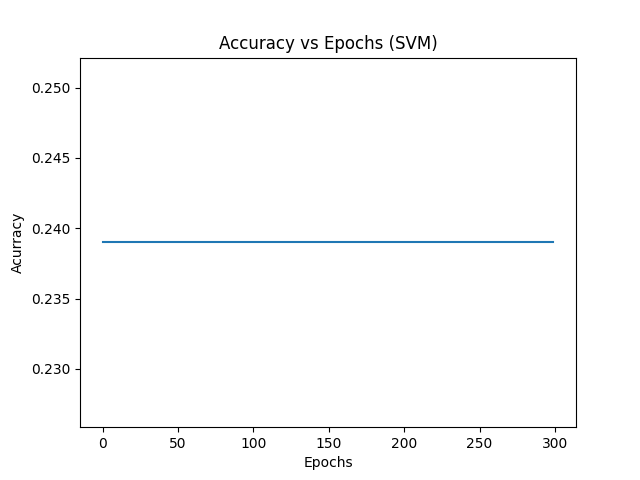
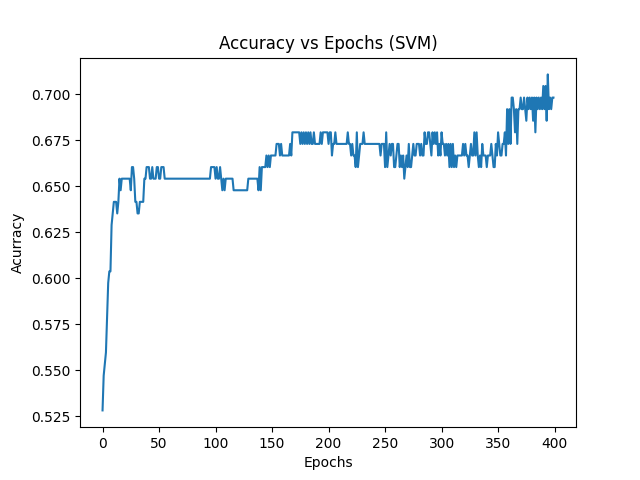
Minor changes"

diff --git a/Act_Training/basic_perceptron.py b/Act_Training/basic_perceptron.py
@@ -11,17 +11,13 @@ from sklearn.metrics import accuracy_score
 
 class Perceptron:
     def __init__(self, epochs, use_svm = False):
-        self.bias = 0
         self.weights = None
         self.epochs = epochs
         self.use_svm = use_svm
-
-    def activation_funtion(self, input):
-        return np.heaviside(input,0)
         
     def predict(self,input):
-        weighted_input = np.dot(input, self.weights) + self.bias
-        return self.activation_funtion(weighted_input)
+        weighted_input = np.dot(input, self.weights)
+        return np.sign(weighted_input)
     
     def mse_cost(self,predition,truth):
         return np.mean((np.square(truth-predition)))
@@ -75,21 +71,26 @@ class Perceptron:
                 costs.append(self.mse_cost(test_prediction,y_test))
         if x_test is not None and y_test is not None:
             self.display_metrics(costs,accuracy,'stochastic')
-        return self.weights, self.bias
+        return self.weights
     
     def batch_gradient_descent(self, train, validate, x_test, y_test, learning_rate):
+        print(f"Starting training with {self.epochs} epochs and batch_gradient_descent")
         alpha = learning_rate
+        number_indexes = train.shape[0]
         number_features = train.shape[1]
         self.weights = np.ones(shape=(number_features))
         accuracy = []
         costs    = []
         for epoch in range(self.epochs):
-            pred = self.predict(train)
-            if(self.use_svm):
-                if validate*pred < 1:
-                    self.weights = self.weights + alpha*validate*train
-            elif(not self.use_svm):
-                self.weights = self.weights + alpha* np.dot((validate-pred),train)
+            w = 0
+            for index in range(number_indexes):
+                pred = self.predict(train[index, :])
+                if(self.use_svm):
+                    if validate[index]*pred < 1:
+                        w += (validate[index]*train[index, :])
+                else:
+                    w += ((validate[index]-pred)*train[index, :])
+            self.weights += alpha*w            
             if x_test is not None and y_test is not None:
                 test_prediction = self.predict(x_test)
                 acc = accuracy_score(y_test,test_prediction)
@@ -97,44 +98,49 @@ class Perceptron:
                 costs.append(self.mse_cost(test_prediction,y_test))
         if x_test is not None and y_test is not None:
             self.display_metrics(costs,accuracy,'batch')
-        return self.weights, self.bias
+        return self.weights
     
-    def mini_gradient_descent(self, train, validate, x_test, y_test, learning_rate):
+    def mini_gradient_descent(self, train, validate, x_test, y_test, learning_rate, batch_size):
         alpha = learning_rate
         number_indexes = train.shape[0]
         number_features = train.shape[1]
-        self.weights = 2*np.random.rand(number_features)-1
+        self.weights = np.ones(shape=(number_features))
         accuracy = []
+        costs = []
+        n = 0
         for epoch in range(self.epochs):
-            indexes = np.random.permutation(number_indexes)
-            for index in indexes:
-                curr_pred = self.predict(train[index, :])
-                self.weights = self.weights + alpha*(validate[index]-curr_pred)*train[index, :]
+            w = 0
+            for index in range(n,n+batch_size):
+                pred = self.predict(train[index, :])
+                if (self.use_svm):
+                    if validate[index]*pred < 1:
+                        w += (validate[index]*train[index, :])
+                else:
+                    w += ((validate[index]-pred)*train[index, :])
+            self.weights += alpha*w
             if x_test is not None and y_test is not None:
                 test_prediction = self.predict(x_test)
                 acc = accuracy_score(y_test,test_prediction)
                 accuracy.append(acc)
+                costs.append(self.mse_cost(test_prediction,y_test))
+            n = n + batch_size if n + batch_size > number_indexes else 0
         if x_test is not None and y_test is not None:
-            #Display accuracy
-            accuracy = np.array(accuracy)
-            plt.plot(np.arange(self.epochs), accuracy)
-            plt.title("Accuracy vs Epochs")
-            plt.xlabel("Epochs")
-            plt.ylabel("Acurracy")
-            plt.savefig("./out/single_neuron_mini_batch.png")
-            plt.show()
-        return self.weights, self.bias
+            self.display_metrics(costs,accuracy,'mini_batch')
+        return self.weights
             
     def train(self,training_type ,train, validate,x_test = None,y_test = None ,learning_rate = 0.001):
         if(training_type == 'stochastic'): return self.stochastic_gradient_descent(train, validate, x_test, y_test, learning_rate)
         if(training_type == 'batch'): return self.batch_gradient_descent(train, validate, x_test, y_test, learning_rate)
-        if(training_type == 'mini_batch'): return self.mini_gradient_descent(train, validate, x_test, y_test, learning_rate)
+        if(training_type == 'mini_batch'): return self.mini_gradient_descent(train, validate, x_test, y_test, learning_rate, batch_size=111)
 
 if __name__ == "__main__":
     path = './data/misterious_data_1.txt'
     data = np.loadtxt(path)
     x = data[:,1:-1]
     y = data[:,0]
+    for i in range(len(y)):
+        y[i] = (y[i] - 1.5)*2
+    
     X_train, X_test, y_train, y_test = train_test_split(x, y, test_size=0.3, random_state=42)
-    model = Perceptron(300,True)
-    model.train('batch',X_train,y_train,X_test,y_test,0.001)
+    model = Perceptron(400,True)
+    model.train('mini_batch',X_train,y_train,X_test,y_test,0.001) 
